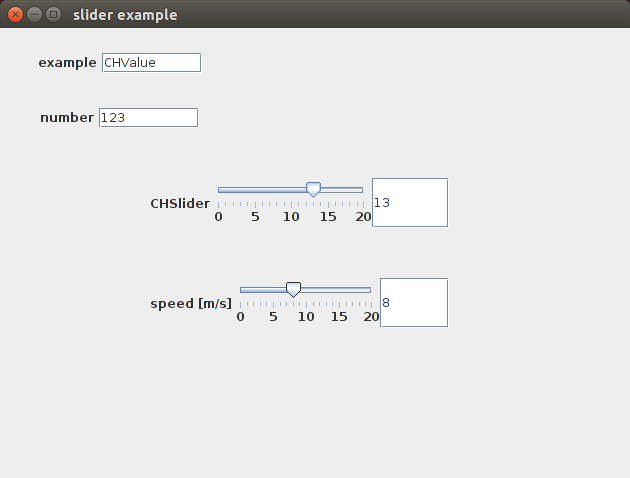
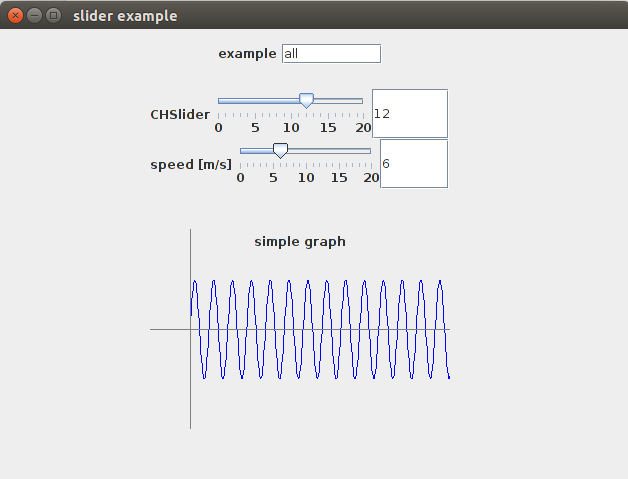
graph added to test all example

diff --git a/simple_GUI_elements/src/gui_elements/CHGraph.java b/simple_GUI_elements/src/gui_elements/CHGraph.java
@@ -30,10 +30,10 @@ public class CHGraph extends CHObject
 		xAchsePos=yDimension/2;
 		yAchsePos=40;
 		
-		// test data
+		// dummy test data
 		for(int n=0;n<dataSize;n++)daten[n]=Math.sin((double)n/5);
-		xMax=dataSize;
 		
+		xMax=dataSize;		
 		scalex=xDimension/(xMax-xMin);
 		
 		width=xDimension;
@@ -42,25 +42,33 @@ public class CHGraph extends CHObject
 		next_yPosition+=heigth;
 	}
 	
+	public CHGraph(String graphName,double[] data)
+	{
+		this(graphName);
+
+		daten=data;
+		dataSize=daten.length;
+		xMax=dataSize;		
+		scalex=xDimension/(xMax-xMin);
+	}
+	
 	@Override 
 	protected void paintComponent(Graphics g)
 	{
 		super.paintComponent(g); // original paintComponent aus JPanel aufrufen
 		g.setColor(Color.blue);
 		
-		double y=0;
+		for(int n=0;n<(dataSize-2);n++)
+		{
 
-			for(int n=0;n<(dataSize-2);n++)
-			{
+			int p1x=(int)(n*scalex);
+			int p1y=(int)(daten[n]*scaley);
+			int p2x=(int)((n+1)*scalex);
+			int p2y=(int)(daten[n+1]*scaley);
+			
+			g.drawLine(yAchsePos+p1x,xAchsePos-p1y,yAchsePos+p2x,xAchsePos-p2y);
 
-				int p1x=(int)(n*scalex);
-				int p1y=(int)(daten[n]*scaley);
-				int p2x=(int)((n+1)*scalex);
-				int p2y=(int)(daten[n+1]*scaley);
-				
-				g.drawLine(yAchsePos+p1x,xAchsePos-p1y,yAchsePos+p2x,xAchsePos-p2y);
-				y=daten[n+1];
-			}
+		}
 
 
 		// draw axis

diff --git a/simple_GUI_elements/src/examples/ATestAllExample.java b/simple_GUI_elements/src/examples/ATestAllExample.java
@@ -1,5 +1,6 @@
 package examples;
 
+import gui_elements.CHGraph;
 import gui_elements.CHSlider;
 import gui_elements.CHValue;
 
@@ -19,19 +20,26 @@ public class ATestAllExample
 
 	    fenster.setDefaultCloseOperation(JFrame.EXIT_ON_CLOSE);
 
-		CHValue value1=new CHValue("example","CHValue");
+		CHValue value1=new CHValue("example","all");
 		fenster.add(value1);
-		value1.setPosition(40, 20);
+		value1.setPosition(150, 10);
 	
-		CHValue value2=new CHValue("number","123");
-		fenster.add(value2);
+		//CHValue value2=new CHValue("number","123");
+		//fenster.add(value2);
 
 		CHSlider value3=new CHSlider("CHSlider",5);
 		fenster.add(value3);
-		value3.setPosition(150, 150);
+		value3.setPosition(150, 60);
 		
 		CHSlider value4=new CHSlider("speed [m/s]",10);
 		fenster.add(value4);
+		
+		int dataSize=500;
+		double[] daten=new double[dataSize];
+		for(int n=0;n<dataSize;n++)daten[n]=Math.sin((double)n/5);
+		CHGraph value5=new CHGraph("simple graph",daten);
+		fenster.add(value5);
+		value5.setPosition(150, 200);
 				
 		fenster.pack();
 		fenster.setVisible(true);

diff --git a/simple_GUI_elements/src/examples/GraphExample.java b/simple_GUI_elements/src/examples/GraphExample.java
@@ -19,11 +19,14 @@ public class GraphExample
 
 	    fenster.setDefaultCloseOperation(JFrame.EXIT_ON_CLOSE);
 
-		CHGraph value1=new CHGraph("temperature");
-		value1.setPosition(100, 100);
+		CHGraph value1=new CHGraph("signal");
+		value1.setPosition(100, 10);
 		fenster.add(value1);
 		
-		CHGraph value2=new CHGraph("temperature");
+		int dataSize=500;
+		double[] daten=new double[dataSize];
+		for(int n=0;n<dataSize;n++)daten[n]=Math.sin((double)n/5);
+		CHGraph value2=new CHGraph("HF signal",daten);
 
 		fenster.add(value2);
 
